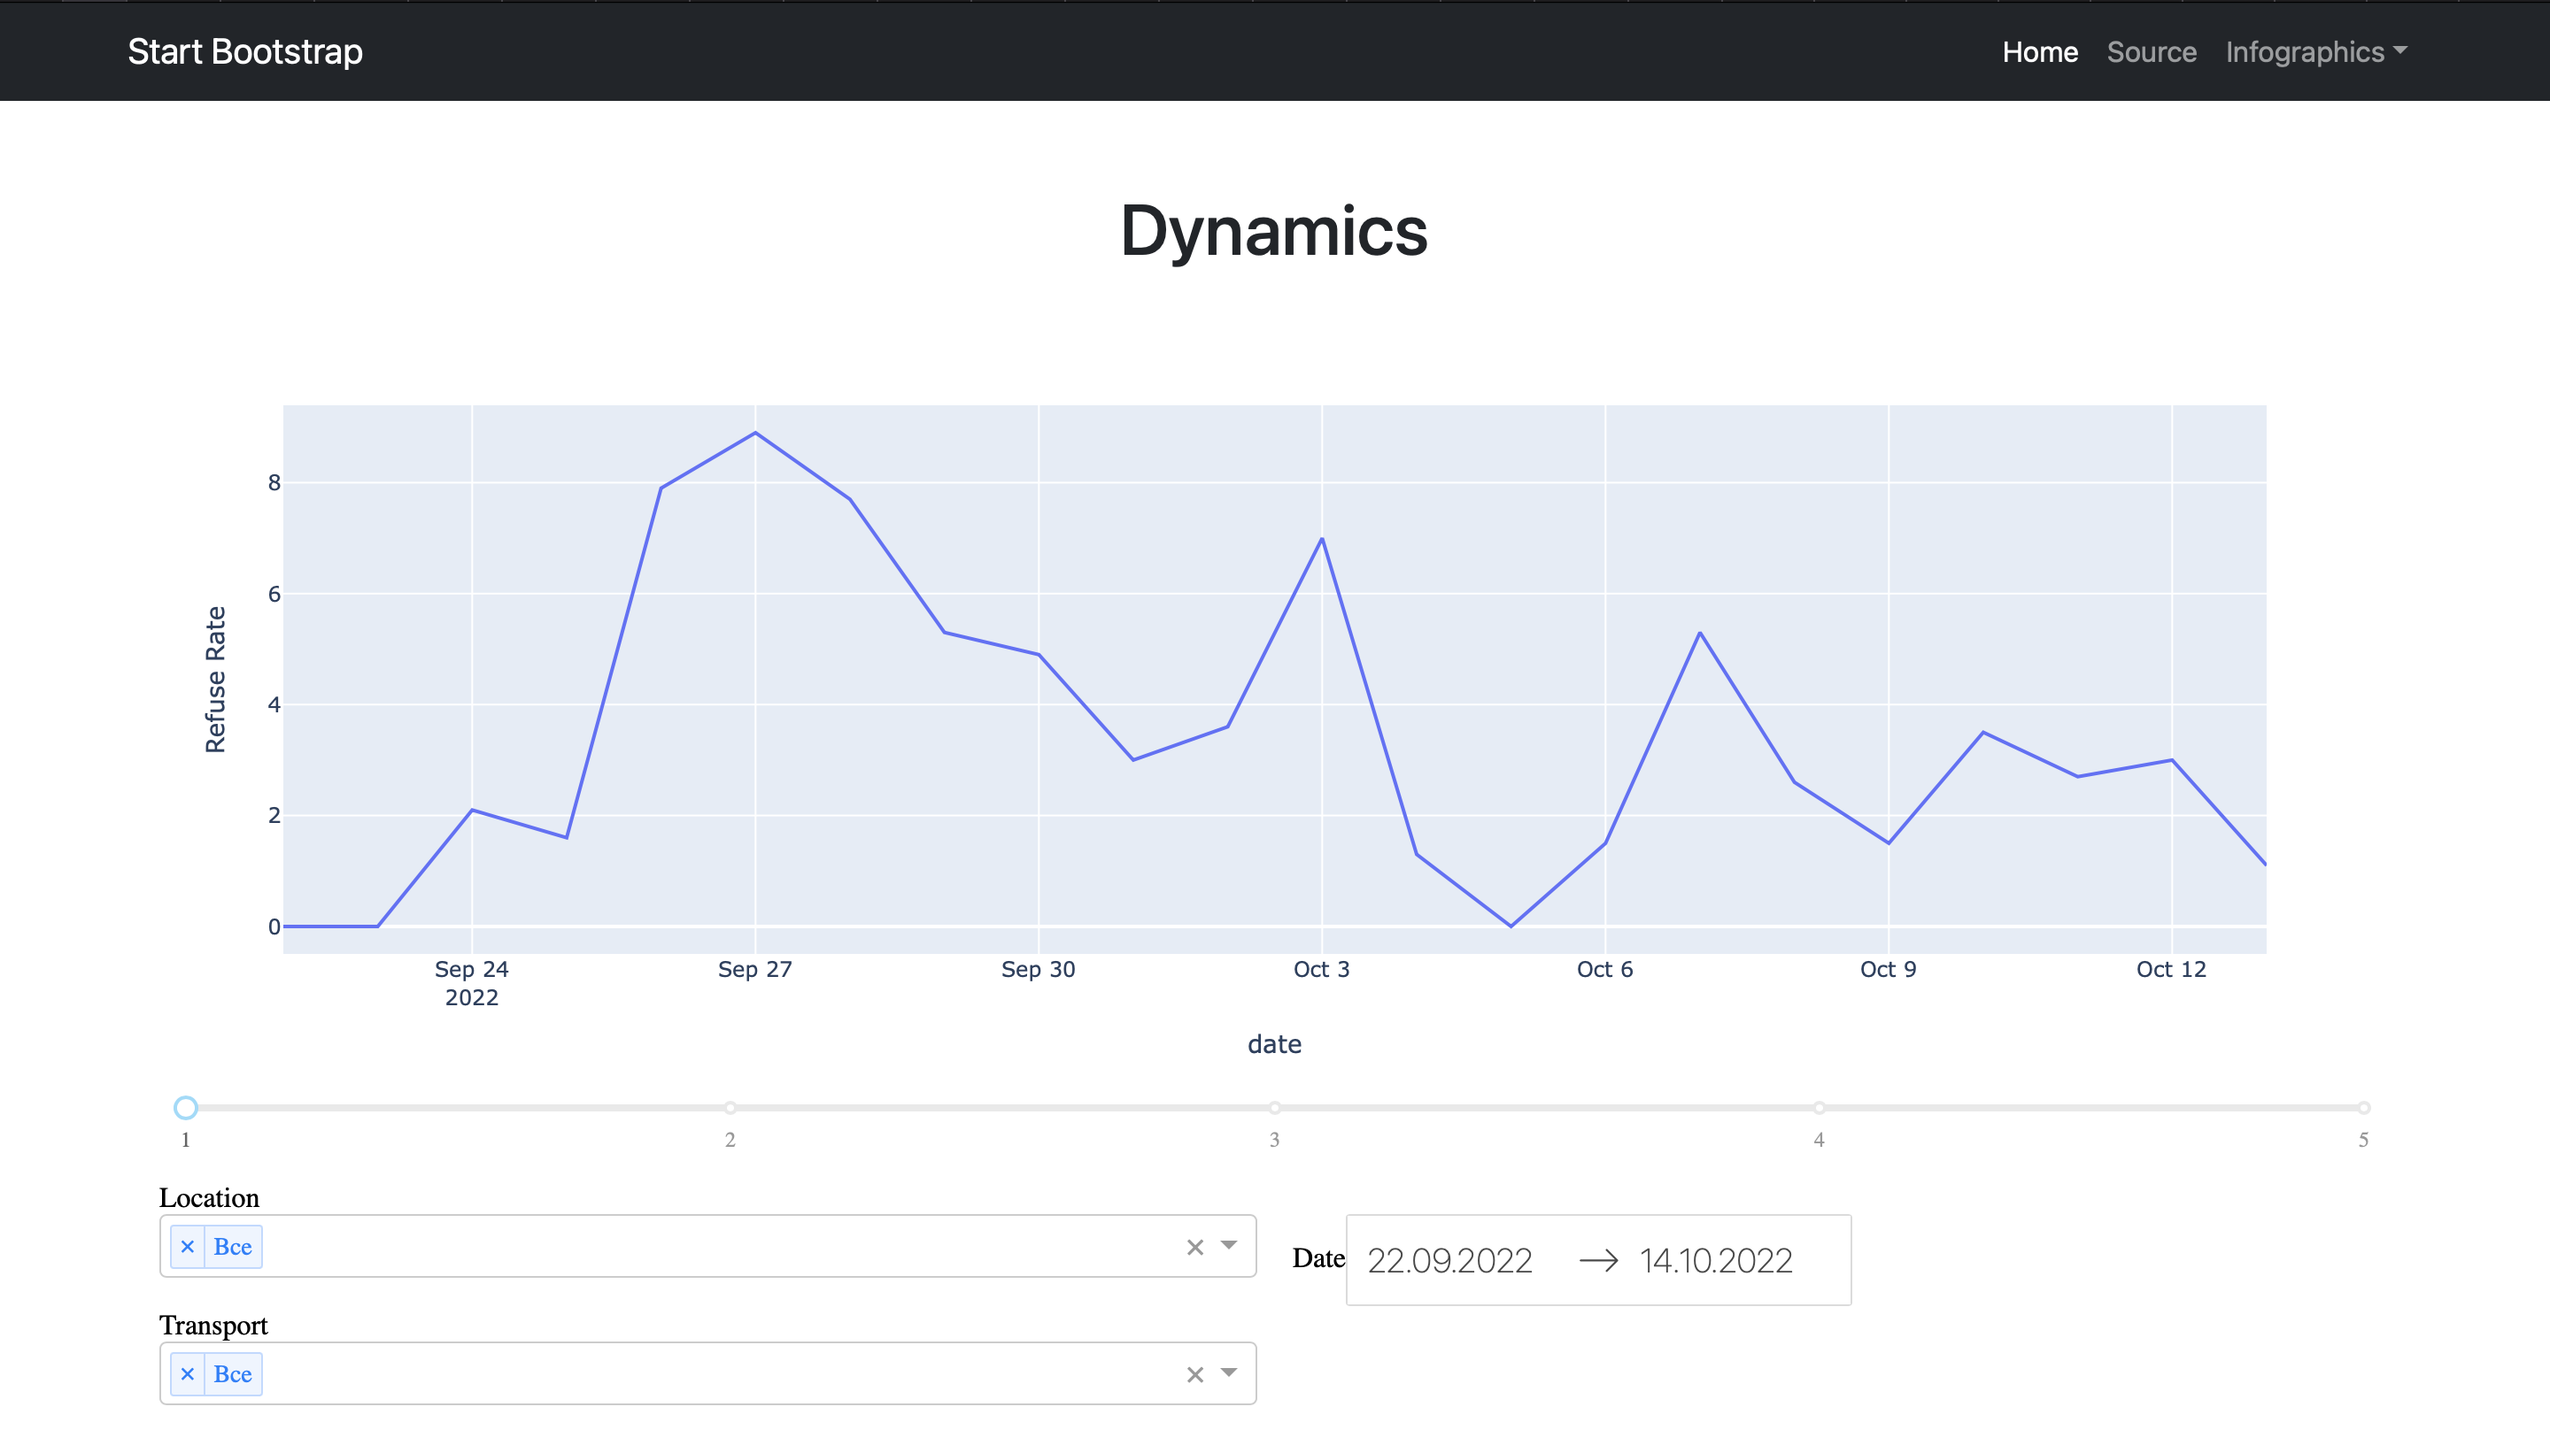
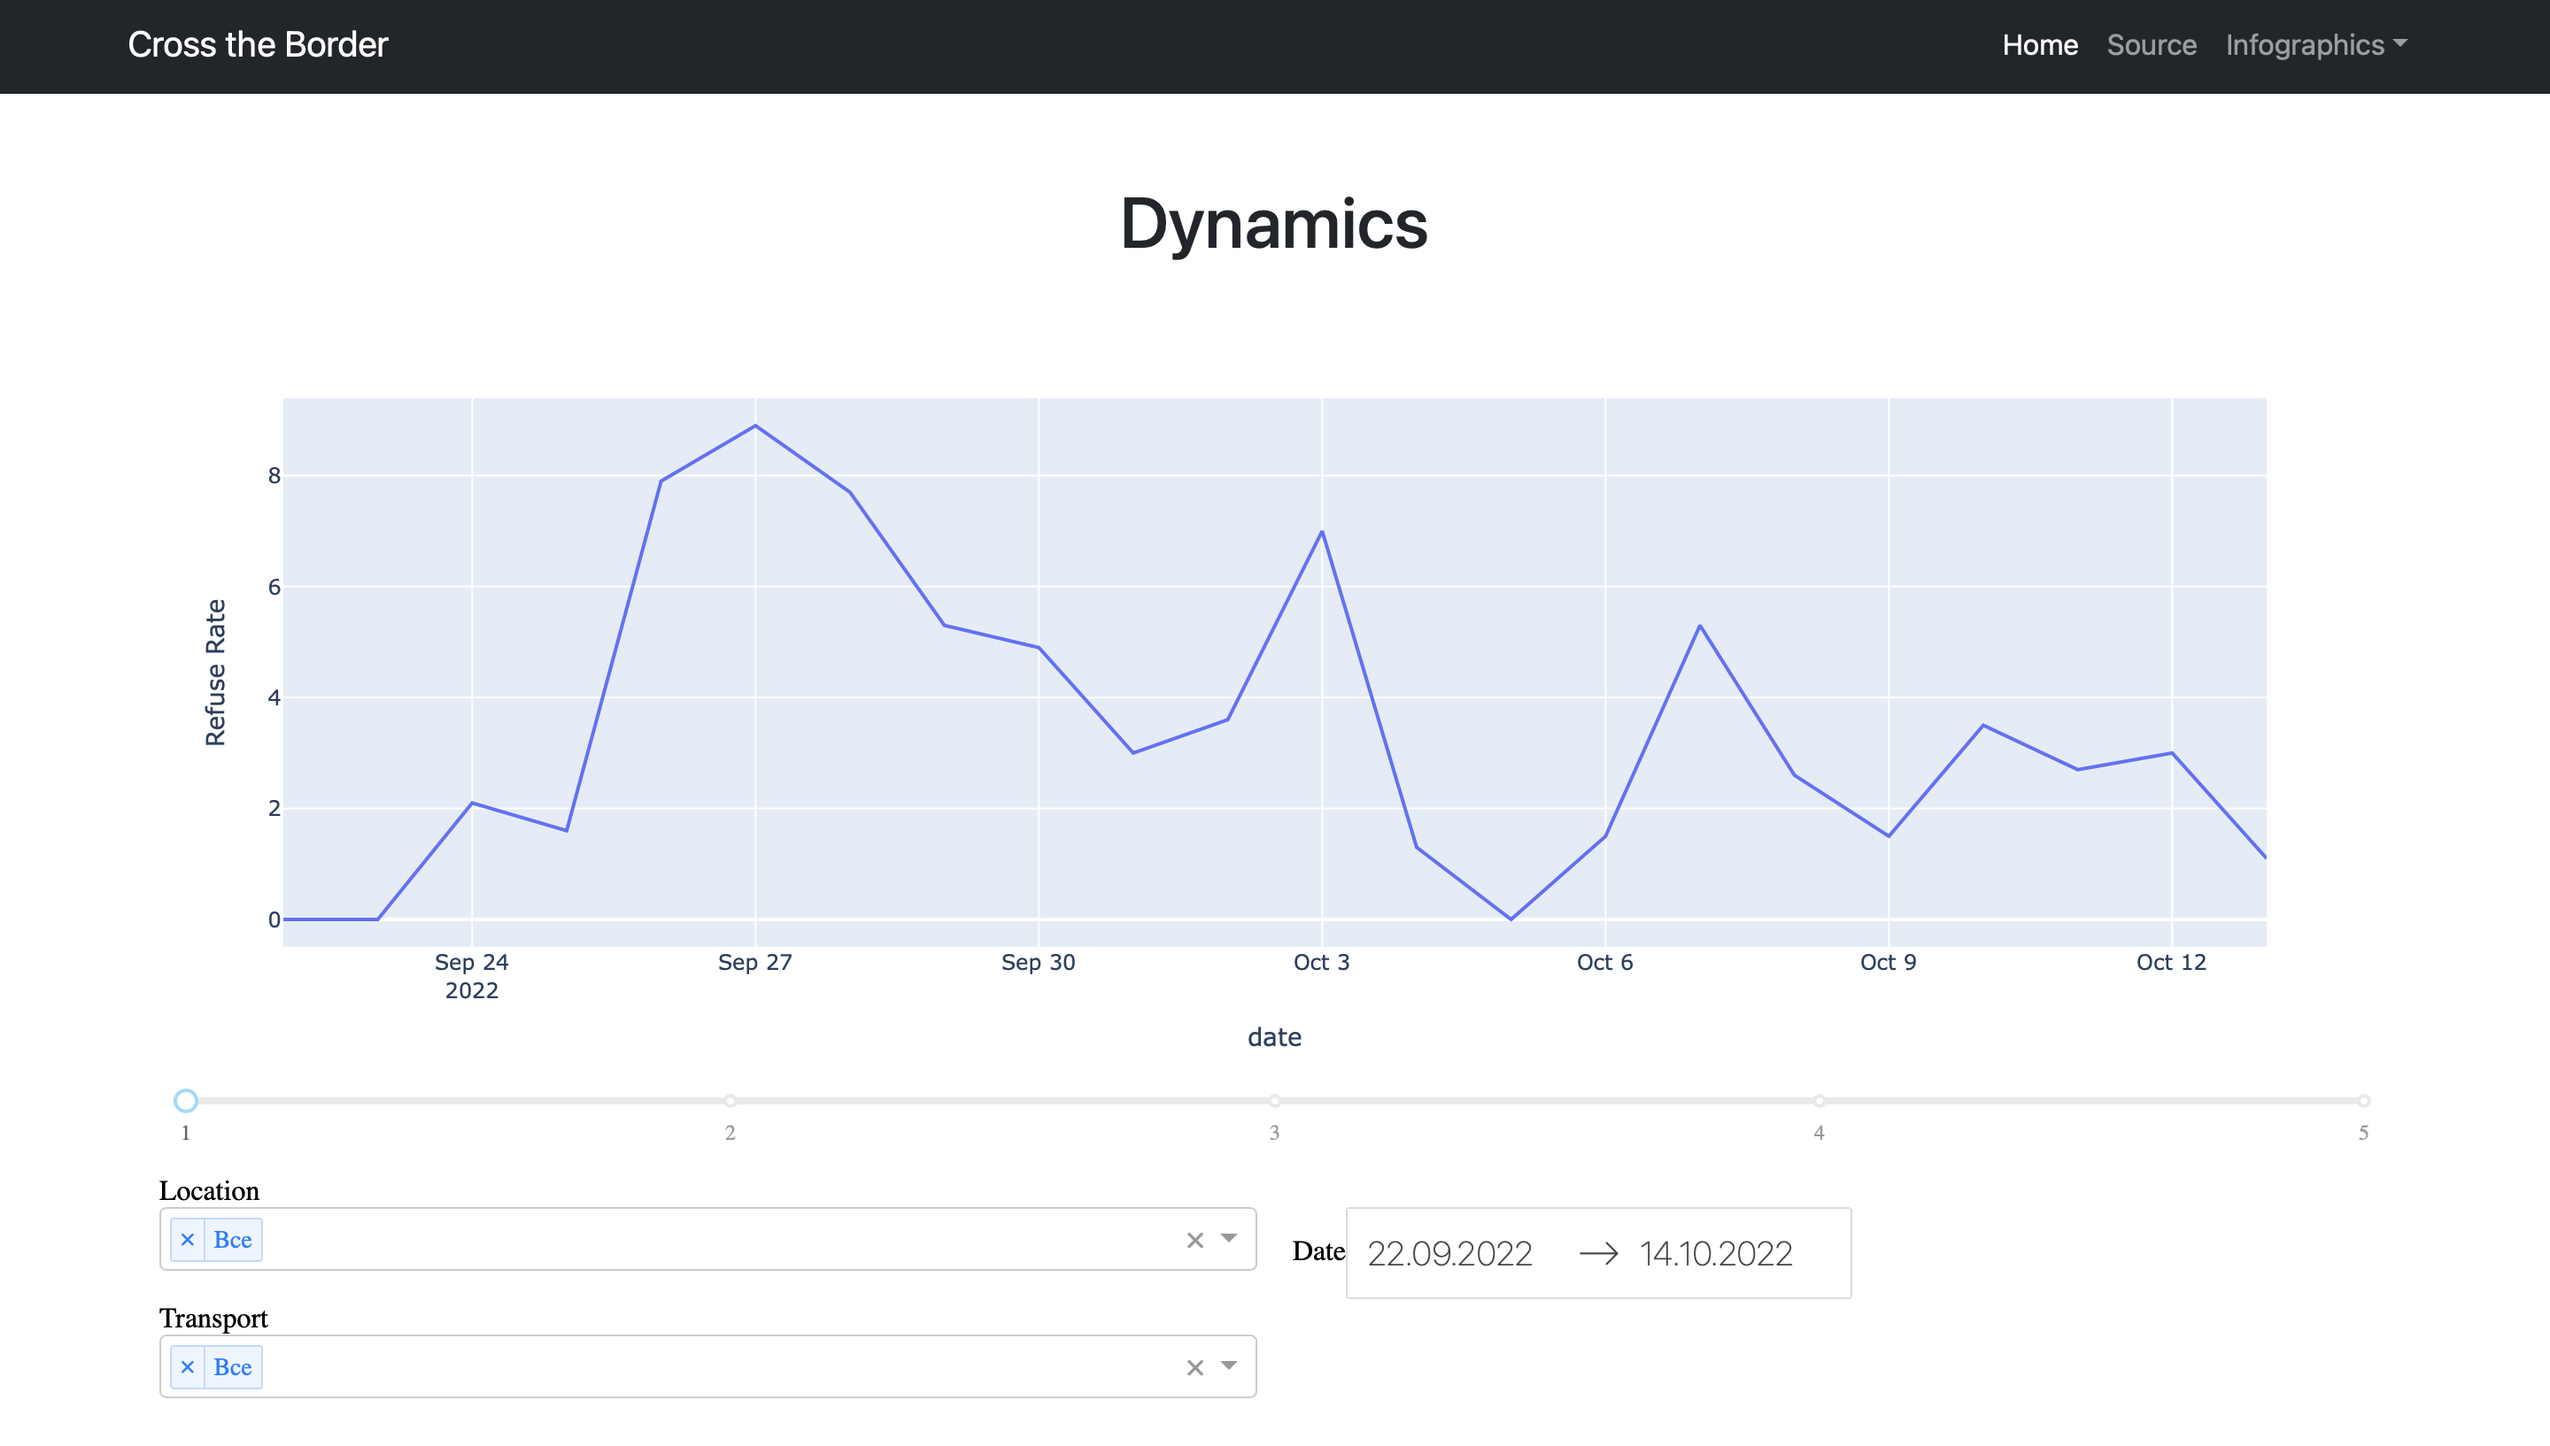
presentation changes

diff --git a/PKsite/project/infostats/templates/base.html b/PKsite/project/infostats/templates/base.html
@@ -16,7 +16,7 @@
         <!-- Responsive navbar-->
         <nav class="navbar navbar-expand-lg navbar-dark bg-dark">
             <div class="container">
-                <a class="navbar-brand" href="#">Start Bootstrap</a>
+                <a class="navbar-brand" href="#">Cross the Border</a>
                 <button class="navbar-toggler" type="button" data-bs-toggle="collapse" data-bs-target="#navbarSupportedContent" aria-controls="navbarSupportedContent" aria-expanded="false" aria-label="Toggle navigation"><span class="navbar-toggler-icon"></span></button>
                 <div class="collapse navbar-collapse" id="navbarSupportedContent">
                     <ul class="navbar-nav ms-auto mb-2 mb-lg-0">
